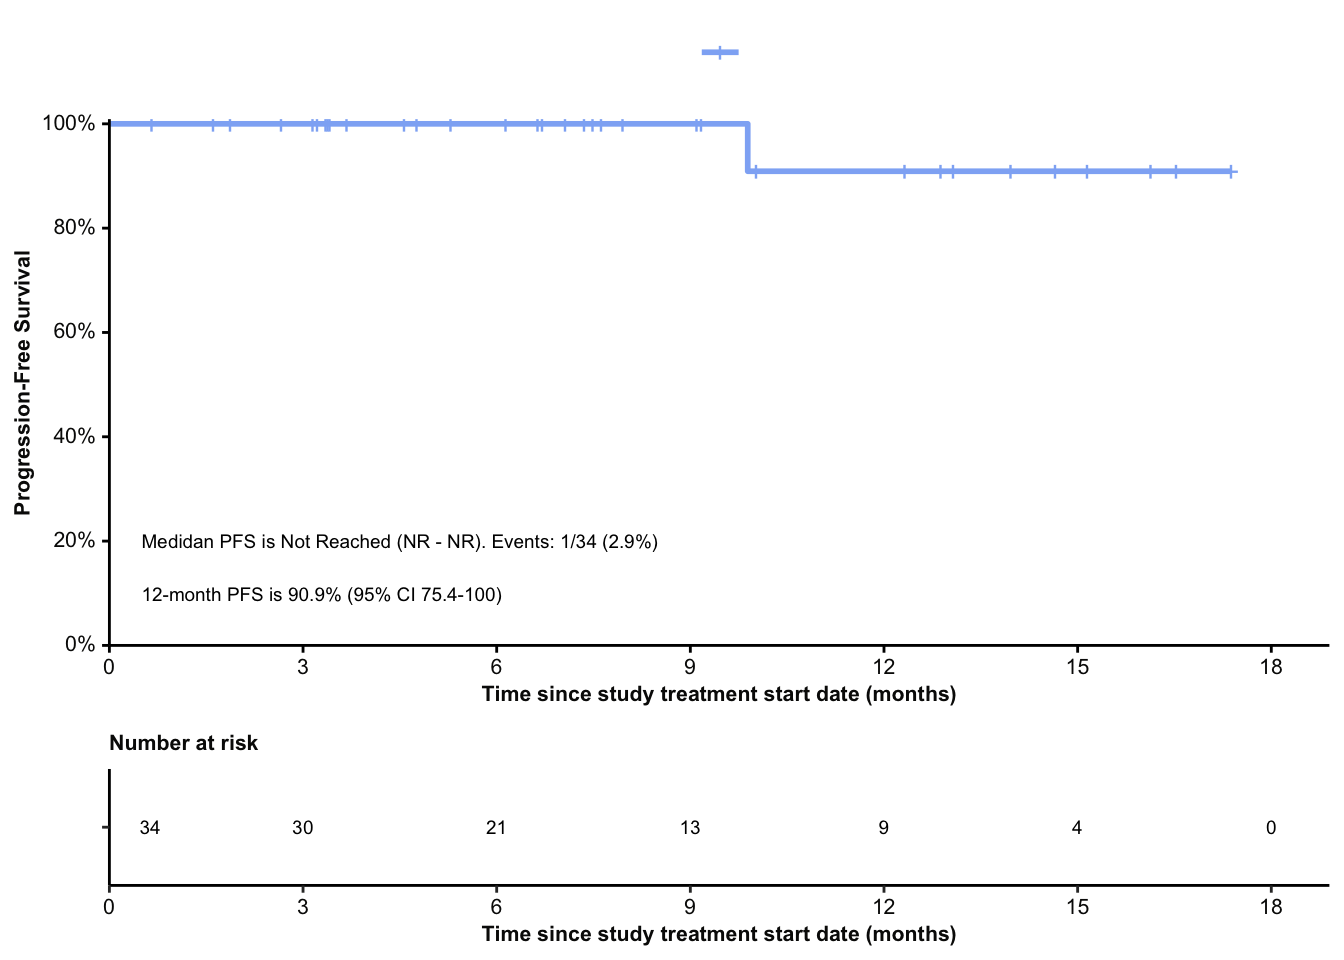
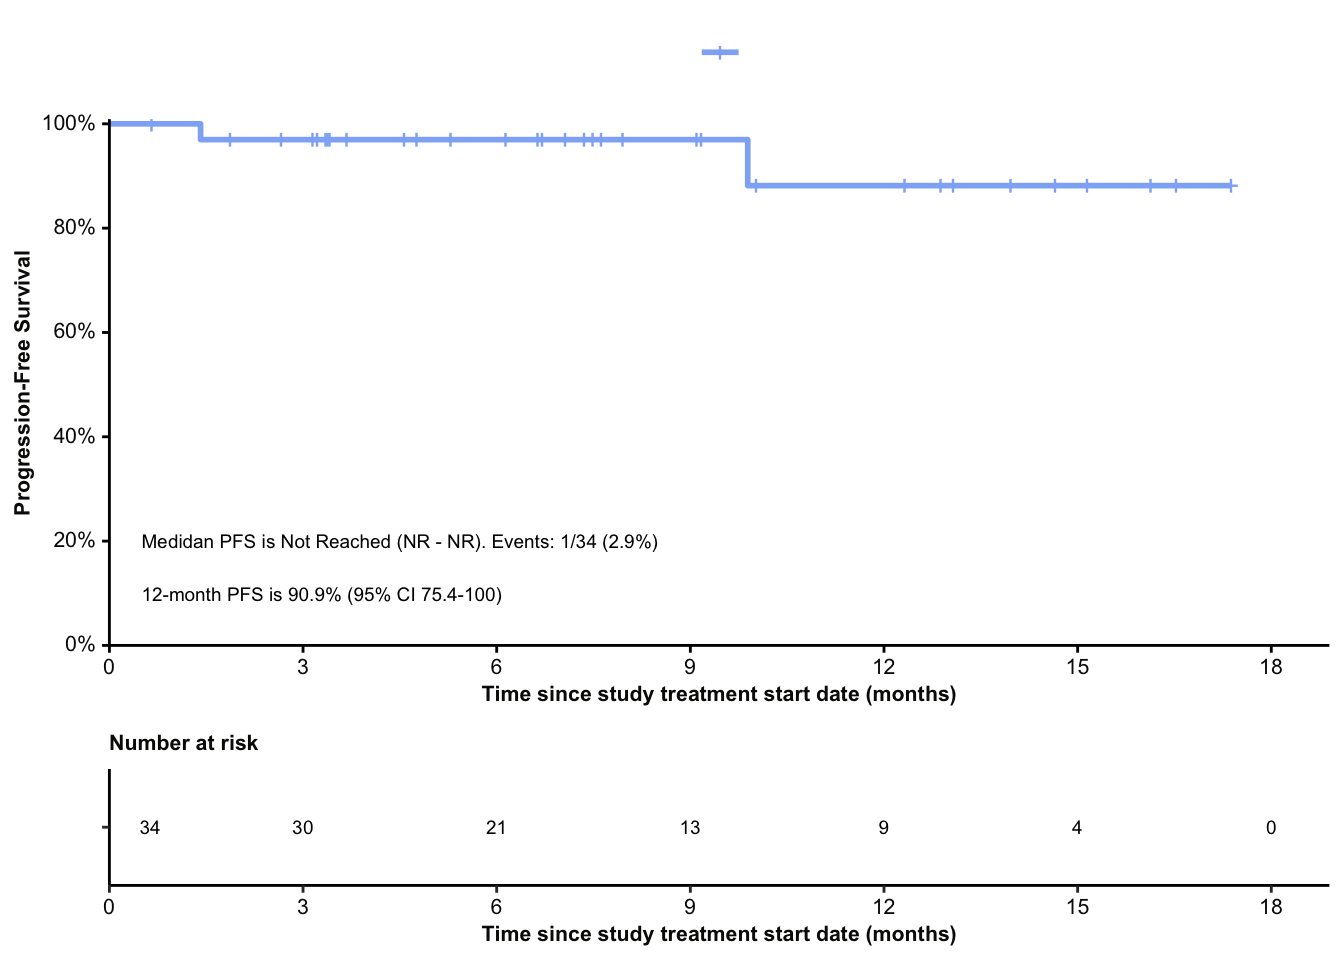
Build site.

Changed region(s): [[0.5625, 0.1562, 0.9375, 0.2188], [0.125, 0.125, 0.5625, 0.1562]]

diff --git a/docs/WP1_Preliminary-analysis_2023-10-24.html b/docs/WP1_Preliminary-analysis_2023-10-24.html
@@ -11,7 +11,7 @@
 
 <meta name="author" content="Daniel Alcala" />
 
-<meta name="date" content="2023-11-03" />
+<meta name="date" content="2023-11-27" />
 
 <title>PECATI | Preliminary data monitoring, cleaning, and analysis. October 2023</title>
 
@@ -359,7 +359,7 @@ div.tocify {
 <h1 class="title toc-ignore">PECATI | Preliminary data monitoring,
 cleaning, and analysis. October 2023</h1>
 <h4 class="author">Daniel Alcala</h4>
-<h4 class="date">2023-11-03</h4>
+<h4 class="date">2023-11-27</h4>
 
 </div>
 
@@ -388,7 +388,7 @@ class="glyphicon glyphicon-ok text-success" aria-hidden="true"></span>
 <div class="tab-content">
 <div id="summary" class="tab-pane fade in active">
 <p>
-<strong>Last updated:</strong> 2023-11-03
+<strong>Last updated:</strong> 2023-11-27
 </p>
 <p>
 <strong>Checks:</strong> <span
@@ -519,15 +519,15 @@ project makes it easier to run your code on other machines.</p>
 <div class="panel panel-default">
 <div class="panel-heading">
 <p class="panel-title">
-<a data-toggle="collapse" data-parent="#workflowr-checks" href="#strongRepositoryversionstrongahrefhttpsgithubcomMedsirScientificPECATItree22f5c1fe522e954b3a693b07cd355fbd1ec77e4ctargetblank22f5c1fa">
+<a data-toggle="collapse" data-parent="#workflowr-checks" href="#strongRepositoryversionstrongahrefhttpsgithubcomMedsirScientificPECATItreeb87183db7236d7b8d6fd9aeebbc5d583f964b205targetblankb87183da">
 <span class="glyphicon glyphicon-ok text-success"
 aria-hidden="true"></span> <strong>Repository version:</strong>
-<a href="https://github.com/MedsirScientific/PECATI/tree/22f5c1fe522e954b3a693b07cd355fbd1ec77e4c" target="_blank">22f5c1f</a>
+<a href="https://github.com/MedsirScientific/PECATI/tree/b87183db7236d7b8d6fd9aeebbc5d583f964b205" target="_blank">b87183d</a>
 </a>
 </p>
 </div>
 <div
[2 lines of base64/hex data omitted]
 class="panel-collapse collapse">
 <div class="panel-body">
 <p>
@@ -537,7 +537,7 @@ reproducibility.
 </p>
 <p>
 The results in this page were generated with repository version
-<a href="https://github.com/MedsirScientific/PECATI/tree/22f5c1fe522e954b3a693b07cd355fbd1ec77e4c" target="_blank">22f5c1f</a>.
+<a href="https://github.com/MedsirScientific/PECATI/tree/b87183db7236d7b8d6fd9aeebbc5d583f964b205" target="_blank">b87183d</a>.
 See the <em>Past versions</em> tab to see a history of the changes made
 to the R Markdown and HTML files.
 </p>
@@ -571,6 +571,8 @@ Untracked files:
     Untracked:  output/PECATI/
     Untracked:  output/PECATI_Figure_OS_global_2023-10-26.png
     Untracked:  output/PECATI_Figure_OS_global_2023-11-03.png
+    Untracked:  output/PECATI_Figure_OS_global_2023-11-07.png
+    Untracked:  output/PECATI_Figure_OS_global_2023-11-27.png
     Untracked:  output/PECATI_Figure_PFS_global_2023-10-26.png
     Untracked:  output/PECATI_aes_discontinuations_table_2023_10_24.docx
     Untracked:  output/PECATI_aes_table_2023_10_24.docx
@@ -623,6 +625,40 @@ Message
 </tr>
 </thead>
 <tbody>
+<tr>
+<td>
+Rmd
+</td>
+<td>
+<a href="https://github.com/MedsirScientific/PECATI/blob/b87183db7236d7b8d6fd9aeebbc5d583f964b205/analysis/WP1_Preliminary-analysis_2023-10-24.Rmd" target="_blank">b87183d</a>
+</td>
+<td>
+Daniel Alcalá
+</td>
+<td>
+2023-11-27
+</td>
+<td>
+Encode clinical progressions as PD event in Figure 1
+</td>
+</tr>
+<tr>
+<td>
+html
+</td>
+<td>
+<a href="https://rawcdn.githack.com/MedsirScientific/PECATI/daa0400df4b2920a5eb19e74d8a0db69c4813af8/docs/WP1_Preliminary-analysis_2023-10-24.html" target="_blank">daa0400</a>
+</td>
+<td>
+Daniel Alcalá
+</td>
+<td>
+2023-11-03
+</td>
+<td>
+Build site.
+</td>
+</tr>
 <tr>
 <td>
 Rmd
@@ -1656,8 +1692,6 @@ Patient disposition data
 <h1>Patient Disposition</h1>
 <div id="screening" class="section level2">
 <h2>Screening</h2>
-<!--# Under development -->
-<!--# Under development -->
 <p>Listing of patients who have undergone the screening phase (n =
 45):</p>
 <div data-pagedtable="false">
@@ -2648,7 +2682,7 @@ id="figure-1.-patient-trajectories-along-the-clinical-trial-from-informed-consen
 class="section level4">
 <h4><strong>Figure 1. Patient trajectories along the clinical trial from
 informed consent to study termination</strong></h4>
-<p><img src="figure/WP1_Preliminary-analysis_2023-10-24.Rmd/unnamed-chunk-16-1.png" width="672" style="display: block; margin: auto;" /></p>
+<p><img src="figure/WP1_Preliminary-analysis_2023-10-24.Rmd/unnamed-chunk-15-1.png" width="672" style="display: block; margin: auto;" /></p>
 </div>
 </div>
 </div>
@@ -3406,7 +3440,7 @@ registered dose: 2023-10-06).</p>
 <p>Listing of survival data:</p>
 <div data-pagedtable="false">
 <script data-pagedtable-source type="application/json">
-{"columns":[{"label":["Patient"],"name":[1],"type":["chr"],"align":["left"]},{"label":["PFS event (PD or exitus)"],"name":[2],"type":["chr"],"align":["left"]},{"label":["Time to PFS event (months)"],"name":[3],"type":["dbl"],"align":["right"]},{"label":["OS event (exitus)"],"name":[4],"type":["chr"],"align":["left"]},{"label":["Time to OS event (months)"],"name":[5],"type":["dbl"],"align":["right"]}],"data":[{"1":"0102-001","2":"No","3":"13.1","4":"No","5":"13.1"},{"1":"0102-003","2":"No","3":"1.6","4":"Yes","5":"1.6"},{"1":"0102-004","2":"No","3":"3.2","4":"No","5":"3.2"},{"1":"0103-001","2":"Yes","3":"9.9","4":"No","5":"14.2"},{"1":"0103-002","2":"No","3":"14.0","4":"No","5":"14.0"},{"1":"0105-001","2":"No","3":"17.4","4":"No","5":"17.4"},{"1":"0105-003","2":"No","3":"12.9","4":"No","5":"12.9"},{"1":"0201-001","2":"No","3":"7.5","4":"No","5":"7.5"},{"1":"0201-002","2":"No","3":"7.6","4":"No","5":"7.6"},{"1":"0201-003","2":"No","3":"6.7","4":"No","5":"6.7"},{"1":"0201-004","2":"No","3":"4.6","4":"No","5":"4.6"},{"1":"0201-005","2":"No","3":"3.7","4":"No","5":"3.7"},{"1":"0202-002","2":"No","3":"16.5","4":"No","5":"16.5"},{"1":"0202-003","2":"No","3":"15.1","4":"No","5":"15.1"},{"1":"0202-004","2":"No","3":"9.2","4":"No","5":"9.2"},{"1":"0202-005","2":"No","3":"9.1","4":"No","5":"9.1"},{"1":"0202-007","2":"No","3":"6.6","4":"No","5":"6.6"},{"1":"0203-001","2":"No","3":"8.0","4":"No","5":"8.0"},{"1":"0203-002","2":"No","3":"1.9","4":"No","5":"1.9"},{"1":"0204-001","2":"No","3":"4.8","4":"No","5":"4.8"},{"1":"0205-001","2":"No","3":"5.3","4":"No","5":"5.3"},{"1":"0206-001","2":"No","3":"3.4","4":"No","5":"3.4"},{"1":"0206-002","2":"No","3":"0.7","4":"No","5":"0.7"},{"1":"0301-001","2":"No","3":"16.1","4":"No","5":"16.1"},{"1":"0301-002","2":"No","3":"14.7","4":"No","5":"14.7"},{"1":"0301-003","2":"No","3":"12.3","4":"No","5":"12.3"},{"1":"0301-004","2":"No","3":"10.0","4":"No","5":"10.0"},{"1":"0301-005","2":"No","3":"7.4","4":"No","5":"7.4"},{"1":"0301-006","2":"No","3":"7.1","4":"No","5":"7.1"},{"1":"0301-007","2":"No","3":"6.1","4":"No","5":"6.1"},{"1":"0301-008","2":"No","3":"3.4","4":"No","5":"3.4"},{"1":"0301-009","2":"No","3":"3.4","4":"No","5":"3.4"},{"1":"0301-010","2":"No","3":"3.2","4":"No","5":"3.2"},{"1":"0301-011","2":"No","3":"2.7","4":"No","5":"2.7"}],"options":{"columns":{"min":{},"max":[10]},"rows":{"min":[10],"max":[10]},"pages":{}}}
+{"columns":[{"label":["Patient"],"name":[1],"type":["chr"],"align":["left"]},{"label":["PFS event (PD or exitus)"],"name":[2],"type":["chr"],"align":["left"]},{"label":["Time to PFS event (months)"],"name":[3],"type":["dbl"],"align":["right"]},{"label":["OS event (exitus)"],"name":[4],"type":["chr"],"align":["left"]},{"label":["Time to OS event (months)"],"name":[5],"type":["dbl"],"align":["right"]}],"data":[{"1":"0102-001","2":"No","3":"13.1","4":"No","5":"13.1"},{"1":"0102-003","2":"Yes","3":"1.4","4":"Yes","5":"1.6"},{"1":"0102-004","2":"No","3":"3.2","4":"No","5":"3.2"},{"1":"0103-001","2":"Yes","3":"9.9","4":"No","5":"14.2"},{"1":"0103-002","2":"No","3":"14.0","4":"No","5":"14.0"},{"1":"0105-001","2":"No","3":"17.4","4":"No","5":"17.4"},{"1":"0105-003","2":"No","3":"12.9","4":"No","5":"12.9"},{"1":"0201-001","2":"No","3":"7.5","4":"No","5":"7.5"},{"1":"0201-002","2":"No","3":"7.6","4":"No","5":"7.6"},{"1":"0201-003","2":"No","3":"6.7","4":"No","5":"6.7"},{"1":"0201-004","2":"No","3":"4.6","4":"No","5":"4.6"},{"1":"0201-005","2":"No","3":"3.7","4":"No","5":"3.7"},{"1":"0202-002","2":"No","3":"16.5","4":"No","5":"16.5"},{"1":"0202-003","2":"No","3":"15.1","4":"No","5":"15.1"},{"1":"0202-004","2":"No","3":"9.2","4":"No","5":"9.2"},{"1":"0202-005","2":"No","3":"9.1","4":"No","5":"9.1"},{"1":"0202-007","2":"No","3":"6.6","4":"No","5":"6.6"},{"1":"0203-001","2":"No","3":"8.0","4":"No","5":"8.0"},{"1":"0203-002","2":"No","3":"1.9","4":"No","5":"1.9"},{"1":"0204-001","2":"No","3":"4.8","4":"No","5":"4.8"},{"1":"0205-001","2":"No","3":"5.3","4":"No","5":"5.3"},{"1":"0206-001","2":"No","3":"3.4","4":"No","5":"3.4"},{"1":"0206-002","2":"No","3":"0.7","4":"No","5":"0.7"},{"1":"0301-001","2":"No","3":"16.1","4":"No","5":"16.1"},{"1":"0301-002","2":"No","3":"14.7","4":"No","5":"14.7"},{"1":"0301-003","2":"No","3":"12.3","4":"No","5":"12.3"},{"1":"0301-004","2":"No","3":"10.0","4":"No","5":"10.0"},{"1":"0301-005","2":"No","3":"7.4","4":"No","5":"7.4"},{"1":"0301-006","2":"No","3":"7.1","4":"No","5":"7.1"},{"1":"0301-007","2":"No","3":"6.1","4":"No","5":"6.1"},{"1":"0301-008","2":"No","3":"3.4","4":"No","5":"3.4"},{"1":"0301-009","2":"No","3":"3.4","4":"No","5":"3.4"},{"1":"0301-010","2":"No","3":"3.2","4":"No","5":"3.2"},{"1":"0301-011","2":"No","3":"2.7","4":"No","5":"2.7"}],"options":{"columns":{"min":{},"max":[10]},"rows":{"min":[10],"max":[10]},"pages":{}}}
   </script>
 </div>
 <div id="table-3.-summary-of-os-events" class="section level4">
@@ -4397,7 +4431,7 @@ Daniel Alcalá
 <h4><strong>Table 6. Summary of PFS events:</strong></h4>
 <div data-pagedtable="false">
 <script data-pagedtable-source type="application/json">
-{"columns":[{"label":["time"],"name":[1],"type":["dbl"],"align":["right"]},{"label":["n.risk"],"name":[2],"type":["dbl"],"align":["right"]},{"label":["n.event"],"name":[3],"type":["dbl"],"align":["right"]},{"label":["n.censor"],"name":[4],"type":["dbl"],"align":["right"]},{"label":["estimate"],"name":[5],"type":["dbl"],"align":["right"]},{"label":["std.error"],"name":[6],"type":["dbl"],"align":["right"]},{"label":["conf.high"],"name":[7],"type":["dbl"],"align":["right"]},{"label":["conf.low"],"name":[8],"type":["dbl"],"align":["right"]}],"data":[{"1":"0.66","2":"34","3":"0","4":"1","5":"1.00","6":"0.0","7":"NA","8":"NA"},{"1":"1.61","2":"33","3":"0","4":"1","5":"1.00","6":"0.0","7":"NA","8":"NA"},{"1":"1.87","2":"32","3":"0","4":"1","5":"1.00","6":"0.0","7":"NA","8":"NA"},{"1":"2.66","2":"31","3":"0","4":"1","5":"1.00","6":"0.0","7":"NA","8":"NA"},{"1":"3.15","2":"30","3":"0","4":"1","5":"1.00","6":"0.0","7":"NA","8":"NA"},{"1":"3.22","2":"29","3":"0","4":"1","5":"1.00","6":"0.0","7":"NA","8":"NA"},{"1":"3.35","2":"28","3":"0","4":"1","5":"1.00","6":"0.0","7":"NA","8":"NA"},{"1":"3.38","2":"27","3":"0","4":"1","5":"1.00","6":"0.0","7":"NA","8":"NA"},{"1":"3.42","2":"26","3":"0","4":"1","5":"1.00","6":"0.0","7":"NA","8":"NA"},{"1":"3.68","2":"25","3":"0","4":"1","5":"1.00","6":"0.0","7":"NA","8":"NA"},{"1":"4.57","2":"24","3":"0","4":"1","5":"1.00","6":"0.0","7":"NA","8":"NA"},{"1":"4.76","2":"23","3":"0","4":"1","5":"1.00","6":"0.0","7":"NA","8":"NA"},{"1":"5.29","2":"22","3":"0","4":"1","5":"1.00","6":"0.0","7":"NA","8":"NA"},{"1":"6.14","2":"21","3":"0","4":"1","5":"1.00","6":"0.0","7":"NA","8":"NA"},{"1":"6.64","2":"20","3":"0","4":"1","5":"1.00","6":"0.0","7":"NA","8":"NA"},{"1":"6.70","2":"19","3":"0","4":"1","5":"1.00","6":"0.0","7":"NA","8":"NA"},{"1":"7.06","2":"18","3":"0","4":"1","5":"1.00","6":"0.0","7":"NA","8":"NA"},{"1":"7.36","2":"17","3":"0","4":"1","5":"1.00","6":"0.0","7":"NA","8":"NA"},{"1":"7.49","2":"16","3":"0","4":"1","5":"1.00","6":"0.0","7":"NA","8":"NA"},{"1":"7.62","2":"15","3":"0","4":"1","5":"1.00","6":"0.0","7":"NA","8":"NA"},{"1":"7.95","2":"14","3":"0","4":"1","5":"1.00","6":"0.0","7":"NA","8":"NA"},{"1":"9.10","2":"13","3":"0","4":"1","5":"1.00","6":"0.0","7":"NA","8":"NA"},{"1":"9.17","2":"12","3":"0","4":"1","5":"1.00","6":"0.0","7":"NA","8":"NA"},{"1":"9.89","2":"11","3":"1","4":"0","5":"0.91","6":"0.1","7":"0.99","8":"0.51"},{"1":"10.02","2":"10","3":"0","4":"1","5":"0.91","6":"0.1","7":"0.99","8":"0.51"},{"1":"12.32","2":"9","3":"0","4":"1","5":"0.91","6":"0.1","7":"0.99","8":"0.51"},{"1":"12.88","2":"8","3":"0","4":"1","5":"0.91","6":"0.1","7":"0.99","8":"0.51"},{"1":"13.08","2":"7","3":"0","4":"1","5":"0.91","6":"0.1","7":"0.99","8":"0.51"},{"1":"13.96","2":"6","3":"0","4":"1","5":"0.91","6":"0.1","7":"0.99","8":"0.51"},{"1":"14.65","2":"5","3":"0","4":"1","5":"0.91","6":"0.1","7":"0.99","8":"0.51"},{"1":"15.15","2":"4","3":"0","4":"1","5":"0.91","6":"0.1","7":"0.99","8":"0.51"},{"1":"16.13","2":"3","3":"0","4":"1","5":"0.91","6":"0.1","7":"0.99","8":"0.51"},{"1":"16.53","2":"2","3":"0","4":"1","5":"0.91","6":"0.1","7":"0.99","8":"0.51"},{"1":"17.38","2":"1","3":"0","4":"1","5":"0.91","6":"0.1","7":"0.99","8":"0.51"}],"options":{"columns":{"min":{},"max":[10]},"rows":{"min":[10],"max":[10]},"pages":{}}}
+{"columns":[{"label":["time"],"name":[1],"type":["dbl"],"align":["right"]},{"label":["n.risk"],"name":[2],"type":["dbl"],"align":["right"]},{"label":["n.event"],"name":[3],"type":["dbl"],"align":["right"]},{"label":["n.censor"],"name":[4],"type":["dbl"],"align":["right"]},{"label":["estimate"],"name":[5],"type":["dbl"],"align":["right"]},{"label":["std.error"],"name":[6],"type":["dbl"],"align":["right"]},{"label":["conf.high"],"name":[7],"type":["dbl"],"align":["right"]},{"label":["conf.low"],"name":[8],"type":["dbl"],"align":["right"]}],"data":[{"1":"0.66","2":"34","3":"0","4":"1","5":"1.00","6":"0.00","7":"NA","8":"NA"},{"1":"1.41","2":"33","3":"1","4":"0","5":"0.97","6":"0.03","7":"1.00","8":"0.80"},{"1":"1.87","2":"32","3":"0","4":"1","5":"0.97","6":"0.03","7":"1.00","8":"0.80"},{"1":"2.66","2":"31","3":"0","4":"1","5":"0.97","6":"0.03","7":"1.00","8":"0.80"},{"1":"3.15","2":"30","3":"0","4":"1","5":"0.97","6":"0.03","7":"1.00","8":"0.80"},{"1":"3.22","2":"29","3":"0","4":"1","5":"0.97","6":"0.03","7":"1.00","8":"0.80"},{"1":"3.35","2":"28","3":"0","4":"1","5":"0.97","6":"0.03","7":"1.00","8":"0.80"},{"1":"3.38","2":"27","3":"0","4":"1","5":"0.97","6":"0.03","7":"1.00","8":"0.80"},{"1":"3.42","2":"26","3":"0","4":"1","5":"0.97","6":"0.03","7":"1.00","8":"0.80"},{"1":"3.68","2":"25","3":"0","4":"1","5":"0.97","6":"0.03","7":"1.00","8":"0.80"},{"1":"4.57","2":"24","3":"0","4":"1","5":"0.97","6":"0.03","7":"1.00","8":"0.80"},{"1":"4.76","2":"23","3":"0","4":"1","5":"0.97","6":"0.03","7":"1.00","8":"0.80"},{"1":"5.29","2":"22","3":"0","4":"1","5":"0.97","6":"0.03","7":"1.00","8":"0.80"},{"1":"6.14","2":"21","3":"0","4":"1","5":"0.97","6":"0.03","7":"1.00","8":"0.80"},{"1":"6.64","2":"20","3":"0","4":"1","5":"0.97","6":"0.03","7":"1.00","8":"0.80"},{"1":"6.70","2":"19","3":"0","4":"1","5":"0.97","6":"0.03","7":"1.00","8":"0.80"},{"1":"7.06","2":"18","3":"0","4":"1","5":"0.97","6":"0.03","7":"1.00","8":"0.80"},{"1":"7.36","2":"17","3":"0","4":"1","5":"0.97","6":"0.03","7":"1.00","8":"0.80"},{"1":"7.49","2":"16","3":"0","4":"1","5":"0.97","6":"0.03","7":"1.00","8":"0.80"},{"1":"7.62","2":"15","3":"0","4":"1","5":"0.97","6":"0.03","7":"1.00","8":"0.80"},{"1":"7.95","2":"14","3":"0","4":"1","5":"0.97","6":"0.03","7":"1.00","8":"0.80"},{"1":"9.10","2":"13","3":"0","4":"1","5":"0.97","6":"0.03","7":"1.00","8":"0.80"},{"1":"9.17","2":"12","3":"0","4":"1","5":"0.97","6":"0.03","7":"1.00","8":"0.80"},{"1":"9.89","2":"11","3":"1","4":"0","5":"0.88","6":"0.10","7":"0.97","8":"0.55"},{"1":"10.02","2":"10","3":"0","4":"1","5":"0.88","6":"0.10","7":"0.97","8":"0.55"},{"1":"12.32","2":"9","3":"0","4":"1","5":"0.88","6":"0.10","7":"0.97","8":"0.55"},{"1":"12.88","2":"8","3":"0","4":"1","5":"0.88","6":"0.10","7":"0.97","8":"0.55"},{"1":"13.08","2":"7","3":"0","4":"1","5":"0.88","6":"0.10","7":"0.97","8":"0.55"},{"1":"13.96","2":"6","3":"0","4":"1","5":"0.88","6":"0.10","7":"0.97","8":"0.55"},{"1":"14.65","2":"5","3":"0","4":"1","5":"0.88","6":"0.10","7":"0.97","8":"0.55"},{"1":"15.15","2":"4","3":"0","4":"1","5":"0.88","6":"0.10","7":"0.97","8":"0.55"},{"1":"16.13","2":"3","3":"0","4":"1","5":"0.88","6":"0.10","7":"0.97","8":"0.55"},{"1":"16.53","2":"2","3":"0","4":"1","5":"0.88","6":"0.10","7":"0.97","8":"0.55"},{"1":"17.38","2":"1","3":"0","4":"1","5":"0.88","6":"0.10","7":"0.97","8":"0.55"}],"options":{"columns":{"min":{},"max":[10]},"rows":{"min":[10],"max":[10]},"pages":{}}}
   </script>
 </div>
 </div>
@@ -5313,8 +5347,8 @@ Daniel Alcalá
   </thead>
   <tbody class="gt_table_body">
     <tr><td headers="label" class="gt_row gt_left">Overall</td>
-<td headers="stat_1" class="gt_row gt_center">100% (100%, 100%)</td>
-<td headers="stat_2" class="gt_row gt_center">91% (51%, 99%)</td></tr>
+<td headers="stat_1" class="gt_row gt_center">97% (80%, 100%)</td>
+<td headers="stat_2" class="gt_row gt_center">88% (55%, 97%)</td></tr>
   </tbody>
   
   
@@ -9074,7 +9108,7 @@ Session information
 <pre class="r"><code>sessionInfo()</code></pre>
 <pre><code>R version 4.2.2 (2022-10-31)
 Platform: aarch64-apple-darwin20 (64-bit)
-Running under: macOS 14.0
+Running under: macOS 14.1.1
 
 Matrix products: default
 BLAS:   /Library/Frameworks/R.framework/Versions/4.2-arm64/Resources/lib/libRblas.0.dylib
